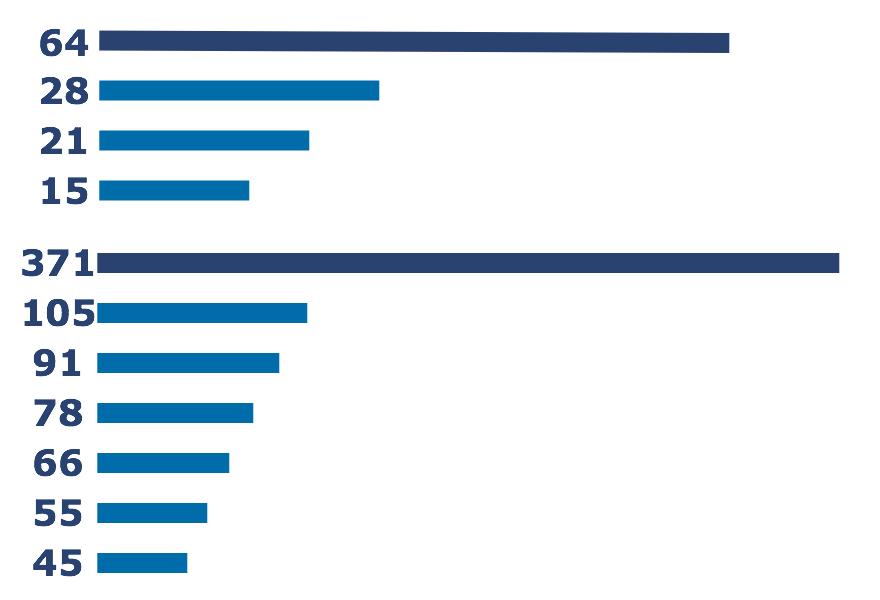
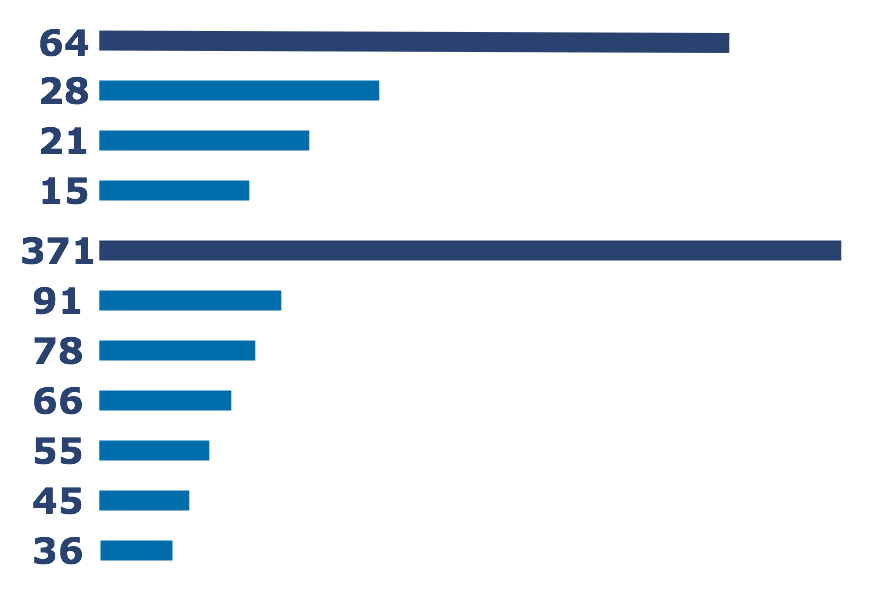
initial code

Changed region(s): [[0.0, 0.39, 0.9818, 0.96]]

diff --git a/info/task_description.html b/info/task_description.html
@@ -80,7 +80,9 @@
     </p>
     <pre class="brush: python">
 checkio(64) == [15, 21, 28]
-checkio(371) == [45, 55, 66, 78, 91, 105]
+checkio(371) == [36, 45, 55, 66, 78, 91]
+checkio(225) == [105, 120]
+checkio(882) == []
     </pre>
 </div>
 
